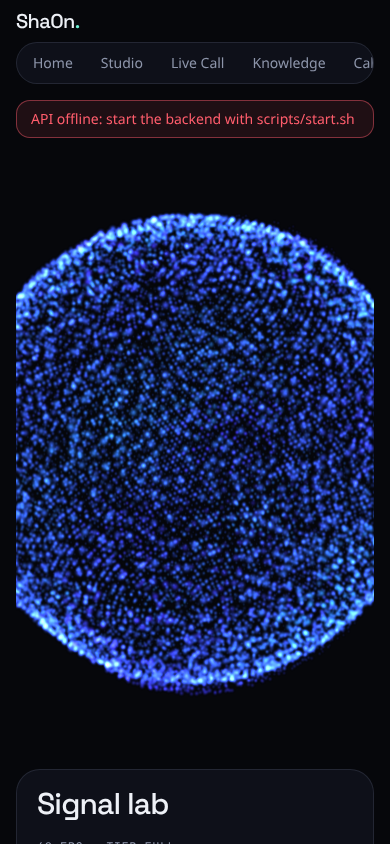
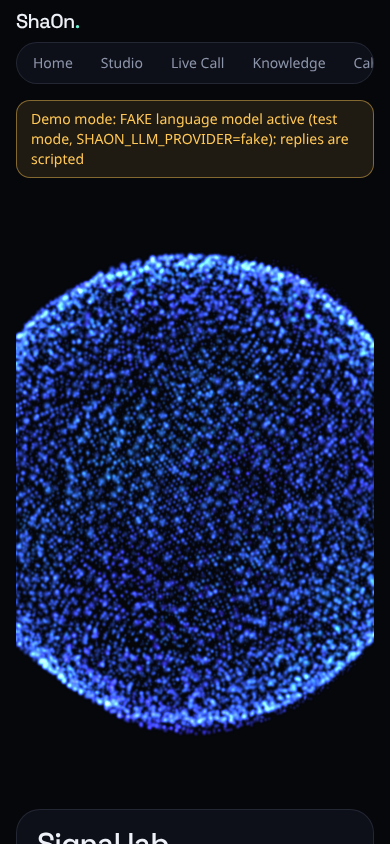
M7: full UI build-out, call logs with replay, accessibility pass
Landing scroll story, spatial preset gallery, language section; Call Logs
with per-turn timings, guardrail events and Signal replay; GSAP respects
effects tiers; axe-core reports zero WCAG A/AA violations on all pages;
64 screenshots across tiers and viewports.

Claude-Session: https://claude.ai/code/session_0169V78jR9Du7f4CGUc1cxE9

diff --git a/web/src/app/logs/page.tsx b/web/src/app/logs/page.tsx
@@ -1,0 +1,115 @@
+"use client";
+/** Call Logs: dense, calm telemetry. Detail = transcript + per-turn timings + guardrail events + Signal replay. */
+import dynamic from "next/dynamic";
+import Link from "next/link";
+import { useEffect, useRef, useState } from "react";
+import { AppShell } from "@/components/shell/AppShell";
+import { emptyLevels, type Levels, type SignalState } from "@/components/signal/Signal";
+import { api } from "@/lib/api";
+import type { Lang } from "@/lib/tokens";
+
+const Signal = dynamic(() => import("@/components/signal/Signal").then((m) => m.Signal), { ssr: false });
+
+type Call = { id: string; profile_id: string; transport: string; started_at: number; ended_at: number | null; languages_used: string | null;
+  provider: string; turns: number; guard_events: number; active: boolean };
+type Turn = { id: number; role: string; language: Lang; text: string; stt_ms: number | null; llm_ms: number | null; llm_ttft_ms: number | null;
+  guard_ms: number | null; tts_ms: number | null; first_audio_ms: number | null; lang_reason: string | null; engine: any; sources: any; guardrail: any; created_at: number };
+
+const fmtT = (t: number) => new Date(t * 1000).toLocaleString();
+const ms = (v: number | null | undefined) => (v == null ? "-" : `${v}`);
+
+export default function Logs() {
+  const [calls, setCalls] = useState<Call[]>([]);
+  const [id, setId] = useState<string | null>(null);
+  const [d, setD] = useState<{ call: Call; turns: Turn[]; guardrail_events: any[] } | null>(null);
+  useEffect(() => {
+    api<Call[]>("/api/calls").then(setCalls).catch(() => {});
+    try { setId(new URL(window.location.href).searchParams.get("id")); } catch {}
+  }, []);
+  useEffect(() => { if (id) api(`/api/calls/${id}`).then(setD as any).catch(() => setD(null)); }, [id]);
+
+  if (id && d) return <AppShell><Detail d={d} /></AppShell>;
+  const avg = (xs: number[]) => (xs.length ? Math.round(xs.reduce((a, b) => a + b, 0) / xs.length) : null);
+  return (
+    <AppShell>
+      <h1 className="display my-6" style={{ fontSize: "clamp(40px, 7vw, 104px)" }}>Call Logs</h1>
+      <div className="glass overflow-x-auto">
+        <table className="w-full mono text-xs" data-testid="calls-table">
+          <thead><tr className="telemetry text-left">{["started", "call", "agent", "transport", "languages", "llm", "turns", "guard", ""].map((h) => <th key={h} className="px-3 py-2">{h}</th>)}</tr></thead>
+          <tbody>{calls.map((c) => (
+            <tr key={c.id} className="border-t" style={{ borderColor: "var(--line)" }}>
+              <td className="px-3 py-2 whitespace-nowrap">{fmtT(c.started_at)}</td><td className="px-3">{c.id}</td><td className="px-3">{c.profile_id}</td>
+              <td className="px-3">{c.transport}</td><td className="px-3">{c.languages_used || "-"}</td><td className="px-3">{c.provider}</td>
+              <td className="px-3">{c.turns}</td><td className="px-3" style={{ color: c.guard_events ? "var(--warn)" : undefined }}>{c.guard_events}</td>
+              <td className="px-3"><Link className="underline" href={`/logs/?id=${c.id}`} onClick={() => setId(c.id)}>{c.active ? "live" : "open"}</Link></td>
+            </tr>))}
+            {calls.length === 0 && <tr><td className="px-3 py-6" colSpan={9}>No calls yet. Start one on the Live Call page.</td></tr>}</tbody>
+        </table>
+      </div>
+    </AppShell>
+  );
+
+  function Detail({ d }: { d: { call: Call; turns: Turn[]; guardrail_events: any[] } }) {
+    const fa = d.turns.map((t) => t.first_audio_ms).filter((x): x is number => x != null);
+    return (
+      <div className="space-y-6 my-6" data-testid="call-detail">
+        <div className="flex flex-wrap items-end justify-between gap-3">
+          <div><Link href="/logs/" className="telemetry underline" onClick={() => { setId(null); setD(null); }}>← all calls</Link>
+            <h1 className="display text-4xl mt-2">{d.call.id}</h1>
+            <p className="telemetry">{fmtT(d.call.started_at)} · {d.call.transport} · {d.call.provider} · languages {d.call.languages_used || "-"} · avg first audio {avg(fa) ?? "-"} ms</p></div>
+        </div>
+        <Replay turns={d.turns} />
+        <div className="glass overflow-x-auto">
+          <table className="w-full text-xs" data-testid="turns-table">
+            <thead><tr className="telemetry text-left">{["role", "lang", "text", "reason", "stt", "llm 1st", "llm", "guard", "tts", "first audio"].map((h) => <th key={h} className="px-3 py-2">{h}</th>)}</tr></thead>
+            <tbody>{d.turns.map((t) => (
+              <tr key={t.id} className="border-t align-top" style={{ borderColor: "var(--line)" }}>
+                <td className="px-3 py-2 mono">{t.role}</td><td className="px-3"><span className={`lang-badge lang-${t.language}`}>{t.language}</span></td>
+                <td className="px-3 py-2 max-w-[44ch]" lang={t.language}>{t.text}{t.sources?.length ? <div className="telemetry mt-1" style={{ textTransform: "none" }}>sources: {t.sources.map((s: any) => s.title).join(", ")}</div> : null}</td>
+                <td className="px-3 mono">{t.lang_reason || "-"}</td>
+                {[t.stt_ms, t.llm_ttft_ms, t.llm_ms, t.guard_ms, t.tts_ms, t.first_audio_ms].map((v, i) => <td key={i} className="px-3 mono">{ms(v)}</td>)}
+              </tr>))}</tbody>
+          </table>
+        </div>
+        <div className="glass p-4"><h2 className="telemetry mb-2">Guardrail events ({d.guardrail_events.length})</h2>
+          <ul className="mono text-xs space-y-1">{d.guardrail_events.map((g) => <li key={g.id}>{g.stage} · {g.verdict} · {g.rule} · {g.detail}</li>)}</ul></div>
+      </div>
+    );
+  }
+}
+
+/** Re-drive the Signal from stored timings: listening = caller audio length, thinking = STT + LLM first text, speaking = estimate. */
+function Replay({ turns }: { turns: Turn[] }) {
+  const [state, setState] = useState<SignalState>("idle");
+  const [lang, setLang] = useState<Lang>("en");
+  const [label, setLabel] = useState("ready");
+  const levels = useRef<Levels>(emptyLevels());
+  const timers = useRef<number[]>([]);
+  function play() {
+    timers.current.forEach(clearTimeout); timers.current = [];
+    let t = 0;
+    const at = (dt: number, f: () => void) => { t += dt; timers.current.push(window.setTimeout(f, t)); };
+    for (let i = 0; i < turns.length; i++) {
+      const u = turns[i];
+      if (u.role === "user") {
+        const listen = Math.round((u.engine?.audio_s ?? 2) * 1000);
+        at(0, () => { setState("listening"); setLang(u.language); setLabel(`caller · ${u.language} · ${listen} ms speech`); levels.current.mic = 0.6; });
+        const a = turns[i + 1];
+        at(listen, () => { setState("thinking"); levels.current.mic = 0; setLabel(`thinking · stt ${ms(u.stt_ms)} · llm 1st ${ms(a?.llm_ttft_ms)} ms`); });
+        const think = (a?.first_audio_ms ?? (u.stt_ms ?? 0) + (a?.llm_ms ?? 0));
+        at(Math.max(300, think), () => { setState("speaking"); setLang(a?.language ?? u.language); setLabel(`agent · first audio ${ms(a?.first_audio_ms)} ms`); levels.current.out = 0.5; levels.current.bands = [0.5, 0.4, 0.3, 0.2]; });
+        at(Math.min(8000, Math.max(1200, (a?.text?.length ?? 40) * 60)), () => { setState("idle"); levels.current = emptyLevels(); setLabel("idle (speaking length estimated from text)"); });
+      }
+    }
+  }
+  useEffect(() => () => timers.current.forEach(clearTimeout), []);
+  return (
+    <div className="glass relative h-[320px] overflow-hidden">
+      <Signal state={state} lang={lang} levelsRef={levels} className="absolute inset-0" />
+      <div className="absolute left-4 bottom-4 flex items-center gap-3">
+        <button className="btn" onClick={play} data-testid="replay">Replay call</button>
+        <span className="telemetry" aria-live="polite">{label}</span>
+      </div>
+    </div>
+  );
+}

diff --git a/web/src/components/landing/HowItWorks.tsx b/web/src/components/landing/HowItWorks.tsx
@@ -1,0 +1,65 @@
+"use client";
+/** Scroll-driven technical story (Immersive Robotics idea, re-implemented): one pinned stage, five steps. */
+import { useEffect, useRef } from "react";
+import { useEffectsTier } from "@/lib/effects";
+import { gsap, ScrollTrigger, setupMotion } from "@/lib/motion";
+
+const STEPS = [
+  { k: "01", t: "Listens", d: "Voice activity detection cuts your speech into turns, locally. Audio never leaves the machine.", m: "VAD · SMART TURN" },
+  { k: "02", t: "Identifies the language", d: "Language ID over five candidates, biased to the previous turn, double-checked by the script of the transcript.", m: "LID · SCRIPT CHECK" },
+  { k: "03", t: "Understands", d: "Speech to text per language: Whisper for English and Japanese, IndicConformer for Hindi, Bengali, Kannada (GPU).", m: "STT ROUTER" },
+  { k: "04", t: "Answers from your site", d: "Claude Haiku 5.5 answers only from your crawled website, retrieved passages and tools. Guardrails check every sentence.", m: "RAG · GUARDRAILS" },
+  { k: "05", t: "Speaks back", d: "Reply language is read from the reply's script; the matching voice speaks it, sentence by sentence.", m: "TTS ROUTER" },
+];
+
+export function HowItWorks() {
+  const root = useRef<HTMLDivElement>(null);
+  const { tier } = useEffectsTier();
+  useEffect(() => {
+    if (tier === "off" || !root.current) return;
+    setupMotion();
+    const ctx = gsap.context(() => {
+      const panels = gsap.utils.toArray<HTMLElement>("[data-step]");
+      const tl = gsap.timeline({ scrollTrigger: { trigger: root.current, start: "top top", end: `+=${panels.length * 70}%`, scrub: 0.6, pin: true } });
+      // cross-fade: step i+1 starts entering before step i has left, so one step is always readable
+      panels.forEach((p, i) => {
+        if (i > 0) tl.fromTo(p, { yPercent: 30, opacity: 0, clipPath: "inset(30% 0 30% 0)" },
+          { yPercent: 0, opacity: 1, clipPath: "inset(0% 0 0% 0)", ease: "emphasis", duration: 0.45 }, i - 0.25);
+        if (i < panels.length - 1) tl.to(p, { yPercent: -25, opacity: 0, ease: "exit", duration: 0.4 }, i + 0.75);
+      });
+      tl.fromTo("[data-progress]", { scaleX: 0 }, { scaleX: 1, ease: "none", duration: panels.length }, 0);
+    }, root);
+    return () => { ctx.revert(); ScrollTrigger.refresh(); };
+  }, [tier]);
+
+  if (tier === "off") {
+    return (
+      <section aria-labelledby="how-h" className="px-[var(--gutter)] py-24 max-w-[var(--content-max)] mx-auto">
+        <h2 id="how-h" className="display mb-10" style={{ fontSize: "clamp(36px, 6vw, 88px)" }}>How ShaOn works</h2>
+        <ol className="grid gap-6 md:grid-cols-5">{STEPS.map((s) => (
+          <li key={s.k} className="glass p-5"><p className="telemetry">{s.k} · {s.m}</p><h3 className="display text-2xl my-2">{s.t}</h3><p className="text-sm" style={{ color: "var(--ink-muted)" }}>{s.d}</p></li>))}</ol>
+      </section>
+    );
+  }
+  return (
+    <section ref={root} aria-labelledby="how-h" className="relative h-[100svh] overflow-hidden">
+      <div className="absolute inset-0 grid place-items-center px-[var(--gutter)]">
+        <h2 id="how-h" className="sr-only">How ShaOn works</h2>
+        <div className="relative w-full max-w-[var(--content-max)] h-[60vh]">
+          {STEPS.map((s, i) => (
+            <article key={s.k} data-step className="absolute inset-0 grid md:grid-cols-[1fr_1.2fr] gap-8 items-center" style={{ opacity: i === 0 ? 1 : 0 }} aria-label={`Step ${s.k}: ${s.t}`}>
+              <div className="display" style={{ fontSize: "clamp(96px, 20vw, 320px)", color: "transparent", WebkitTextStroke: "1px var(--line-strong)" }} aria-hidden="true">{s.k}</div>
+              <div>
+                <p className="telemetry mb-3" style={{ color: "var(--signal)" }}>{s.m}</p>
+                <h3 className="display mb-4" style={{ fontSize: "clamp(36px, 5vw, 80px)" }}>{s.t}</h3>
+                <p className="text-lg max-w-[42ch]" style={{ color: "var(--ink-muted)" }}>{s.d}</p>
+              </div>
+            </article>))}
+        </div>
+        <div className="absolute bottom-10 inset-x-[var(--gutter)] h-px" style={{ background: "var(--line)" }}>
+          <div data-progress className="h-px origin-left" style={{ background: "var(--signal)" }} />
+        </div>
+      </div>
+    </section>
+  );
+}

diff --git a/web/src/components/landing/PresetGallery.tsx b/web/src/components/landing/PresetGallery.tsx
@@ -1,0 +1,55 @@
+"use client";
+/** Spatial preset gallery (basement / DNA-carousel ideas, re-implemented): 3D ring, keys, drag, buttons. */
+import { useRouter } from "next/navigation";
+import { useRef, useState } from "react";
+import { api } from "@/lib/api";
+
+const PRESETS = [
+  { k: "bank_support", t: "Bank support", d: "Balances, lost cards, branch hours, deposit rates. Fake data, AI disclosure, never reads full numbers.", tools: "balance lookup · card block" },
+  { k: "tourism", t: "Tourism desk", d: "Heritage tours, river cruises, Japan trips and visa help from the operator's own site.", tools: "itinerary search" },
+  { k: "ecommerce", t: "Store help", d: "Order status, delivery and returns in five languages.", tools: "order lookup" },
+  { k: "clinic_frontdesk", t: "Clinic front desk", d: "Appointments and hours. Never gives medical advice; emergencies escalate.", tools: "appointment slots" },
+  { k: "custom", t: "Custom agent", d: "Describe any role in your own words and point it at your website.", tools: "no tools" },
+];
+
+export function PresetGallery() {
+  const [i, setI] = useState(0);
+  const [busy, setBusy] = useState(false);
+  const drag = useRef<number | null>(null);
+  const router = useRouter();
+  const n = PRESETS.length, step = 360 / n;
+  const go = (d: number) => setI((x) => (x + d + n) % n);
+  async function use(k: string) {
+    setBusy(true);
+    try { const p: any = await api("/api/profiles", { method: "POST", json: { preset: k } }); router.push(`/studio/?id=${p.id}`); }
+    catch { router.push("/studio/"); }
+  }
+  return (
+    <section aria-labelledby="gallery-h" aria-roledescription="carousel" className="py-24 px-[var(--gutter)] overflow-hidden"
+      onKeyDown={(e) => { if (e.key === "ArrowRight") go(1); if (e.key === "ArrowLeft") go(-1); }}>
+      <div className="max-w-[var(--content-max)] mx-auto">
+        <h2 id="gallery-h" className="display mb-2" style={{ fontSize: "clamp(36px, 6vw, 88px)" }}>Start from a preset</h2>
+        <p className="mb-10" style={{ color: "var(--ink-muted)" }}>Every preset ships with persona, guardrails, disclaimers and tools. Change anything in the Studio.</p>
+        <div className="relative h-[380px] select-none" style={{ perspective: "1400px" }}
+          onPointerDown={(e) => { drag.current = e.clientX; }} onPointerUp={(e) => { if (drag.current !== null) { const dx = e.clientX - drag.current; if (Math.abs(dx) > 40) go(dx < 0 ? 1 : -1); drag.current = null; } }}>
+          <div className="absolute inset-0" style={{ transformStyle: "preserve-3d", transform: `translateZ(-420px) rotateY(${-i * step}deg)`, transition: "transform var(--dur-slow) var(--ease-emphasis)" }}>
+            {PRESETS.map((p, j) => (
+              <article key={p.k} aria-hidden={j !== i} inert={j !== i} className="glass absolute left-1/2 top-0 w-[min(320px,80vw)] h-[340px] p-6 flex flex-col"
+                style={{ backfaceVisibility: "hidden", WebkitBackfaceVisibility: "hidden", transform: `translateX(-50%) rotateY(${j * step}deg) translateZ(420px)`, opacity: j === i ? 1 : 0.35, transition: "opacity var(--dur-base) var(--ease-enter)" }}>
+                <p className="telemetry">{String(j + 1).padStart(2, "0")} / {String(n).padStart(2, "0")}</p>
+                <h3 className="display text-3xl my-3">{p.t}</h3>
+                <p className="text-sm flex-1" style={{ color: "var(--ink-muted)" }}>{p.d}</p>
+                <p className="telemetry mb-4">{p.tools}</p>
+                <button className="btn btn-primary w-fit" disabled={busy} onClick={() => use(p.k)}>Use this preset</button>
+              </article>))}
+          </div>
+        </div>
+        <div className="flex items-center gap-3 mt-6">
+          <button className="btn" onClick={() => go(-1)} aria-label="Previous preset">←</button>
+          <button className="btn" onClick={() => go(1)} aria-label="Next preset">→</button>
+          <span className="telemetry" aria-live="polite">{PRESETS[i].t}</span>
+        </div>
+      </div>
+    </section>
+  );
+}

diff --git a/web/src/app/page.tsx b/web/src/app/page.tsx
@@ -1,5 +1,16 @@
+import Link from "next/link";
+import { HowItWorks } from "@/components/landing/HowItWorks";
 import { Hero } from "@/components/landing/Hero";
+import { PresetGallery } from "@/components/landing/PresetGallery";
 import { CapsuleNav } from "@/components/shell/CapsuleNav";
+
+const LANGS = [
+  { k: "en", n: "English", s: "Latin", line: "Hello, how can I help you today?" },
+  { k: "ja", n: "日本語", s: "Kana / Kanji", line: "本日はどのようなご用件でしょうか。" },
+  { k: "hi", n: "हिन्दी", s: "Devanagari", line: "नमस्ते, मैं आपकी क्या मदद कर सकती हूँ?" },
+  { k: "bn", n: "বাংলা", s: "Bengali", line: "নমস্কার, আমি আপনাকে কীভাবে সাহায্য করতে পারি?" },
+  { k: "kn", n: "ಕನ್ನಡ", s: "Kannada", line: "ನಮಸ್ಕಾರ, ನಾನು ನಿಮಗೆ ಹೇಗೆ ಸಹಾಯ ಮಾಡಲಿ?" },
+];
 
 export default function Landing() {
   return (
@@ -9,7 +20,26 @@ export default function Landing() {
       </header>
       <main id="main">
         <Hero />
+        <HowItWorks />
+        <section aria-labelledby="langs-h" className="py-24 px-[var(--gutter)] max-w-[var(--content-max)] mx-auto">
+          <h2 id="langs-h" className="display mb-10" style={{ fontSize: "clamp(36px, 6vw, 88px)" }}>Switch language any turn</h2>
+          <ul className="grid gap-4 md:grid-cols-5">{LANGS.map((l) => (
+            <li key={l.k} className="glass p-5" lang={l.k}>
+              <p className={`lang-badge lang-${l.k}`} lang="en">{l.k.toUpperCase()} · {l.s}</p>
+              <p className="text-3xl my-4" style={{ color: `var(--lang-${l.k})` }}>{l.n}</p>
+              <p className="text-sm" style={{ color: "var(--ink-muted)" }}>{l.line}</p>
+            </li>))}</ul>
+        </section>
+        <PresetGallery />
+        <section className="py-24 px-[var(--gutter)] text-center">
+          <h2 className="display mb-8" style={{ fontSize: "clamp(36px, 7vw, 110px)" }}>Talk to it.</h2>
+          <Link href="/call/" className="btn btn-metal" style={{ padding: "16px 34px", fontSize: 18 }}>Start a demo</Link>
+        </section>
       </main>
+      <footer className="px-[var(--gutter)] py-10 text-xs space-y-2" style={{ color: "var(--ink-muted)", borderTop: "1px solid var(--line)" }}>
+        <p>ShaOn Voice AI demo. Every agent says it is an AI assistant. Demo businesses and data are fictional.</p>
+        <p><span className="badge-demo">demo only</span> OmniVoice voices use CC-BY-NC weights: private demos only, never commercial.</p>
+      </footer>
     </>
   );
 }

diff --git a/web/src/app/studio/page.tsx b/web/src/app/studio/page.tsx
@@ -156,7 +156,7 @@ export default function Studio() {
                 <fieldset><legend className="telemetry mb-2">Enabled languages</legend>
                   <div className="flex flex-wrap gap-2">{LANGS.map((l) => {
                     const on = cfg.languages.enabled.includes(l);
-                    return <button key={l} lang={l} className={`btn lang-${l}`} aria-pressed={on} style={{ opacity: on ? 1 : 0.5 }}
+                    return <button key={l} lang={l} className={`btn lang-${l}`} aria-pressed={on} style={{ background: on ? "color-mix(in srgb, currentColor 16%, var(--surface-raised))" : undefined, borderColor: on ? "currentColor" : undefined, textDecoration: on ? undefined : "line-through" }}
                       onClick={() => set("languages.enabled", on ? cfg.languages.enabled.filter((x: string) => x !== l) : [...cfg.languages.enabled, l])}>{LANG_NAMES[l].native}</button>;
                   })}</div></fieldset>
                 <Field label="Default language"><select className="btn" value={cfg.languages.default} onChange={(e) => set("languages.default", e.target.value)}>{cfg.languages.enabled.map((l: Lang) => <option key={l} value={l}>{LANG_NAMES[l].native}</option>)}</select></Field>

diff --git a/web/src/components/settings/VoicesPanel.tsx b/web/src/components/settings/VoicesPanel.tsx
@@ -53,7 +53,7 @@ export function VoicesPanel() {
     <section className="glass p-6 space-y-4" aria-labelledby="voices-h" data-testid="voices-panel">
       <h2 id="voices-h" className="display text-2xl">Voices</h2>
       <div className="flex flex-wrap gap-2" role="tablist" aria-label="Voice language">
-        {LANGS.map((l) => <button key={l} role="tab" aria-selected={l === lang} lang={l} className={`btn lang-${l}`} style={{ opacity: l === lang ? 1 : 0.6 }} onClick={() => setLang(l)}>{LANG_NAMES[l].native}</button>)}
+        {LANGS.map((l) => <button key={l} role="tab" aria-selected={l === lang} lang={l} className={`btn lang-${l}`} style={{ background: l === lang ? "color-mix(in srgb, currentColor 16%, var(--surface-raised))" : undefined, borderColor: l === lang ? "currentColor" : undefined }} onClick={() => setLang(l)}>{LANG_NAMES[l].native}</button>)}
       </div>
       <label className="flex items-center gap-2 text-sm">Set defaults for agent
         <select className="btn" value={agent} onChange={(e) => setAgent(e.target.value)}>{profiles.map((p) => <option key={p.id} value={p.id}>{p.name}</option>)}</select></label>

diff --git a/web/src/components/landing/Hero.tsx b/web/src/components/landing/Hero.tsx
@@ -40,7 +40,7 @@ export function Hero() {
         </h1>
         <ul className="flex flex-wrap gap-3 mt-6" aria-label="Supported languages">
           {LANGS.map((l) => (
-            <li key={l} lang={l} className={`lang-badge lang-${l}`} style={{ fontFamily: "var(--font-body)", fontSize: 14, opacity: l === lang ? 1 : 0.55 }}>
+            <li key={l} lang={l} className={`lang-badge lang-${l}`} style={{ fontFamily: "var(--font-body)", fontSize: 14, background: l === lang ? "color-mix(in srgb, currentColor 16%, transparent)" : "transparent" }}>
               {LANG_NAMES[l].native}
             </li>
           ))}

diff --git a/web/src/lib/effects.tsx b/web/src/lib/effects.tsx
@@ -90,7 +90,10 @@ export function EffectsProvider({ children }: { children: React.ReactNode }) {
     return t;
   }, [choice, measuredFps, reducedMotion, generating, software]);
 
-  useEffect(() => { document.documentElement.dataset.effects = tier; }, [tier]);
+  useEffect(() => {
+    document.documentElement.dataset.effects = tier;
+    import("gsap").then(({ default: gsap }) => gsap.globalTimeline.timeScale(tier === "off" ? 1000 : 1)); // off/reduced: end states, no motion
+  }, [tier]);
 
   const setChoice = useCallback((c: TierChoice) => {
     setChoiceState(c);

diff --git a/web/src/styles/tokens.css b/web/src/styles/tokens.css
@@ -15,7 +15,7 @@
   --line-strong: rgba(160, 180, 220, 0.32);
   --ink: #eef1f7;
   --ink-muted: #8d95aa;
-  --ink-faint: #5a6175;
+  --ink-faint: #7a8296; /* >= 4.5:1 on --bg (WCAG AA) */
   --signal: #6ef2d6;
   --signal-alt: #8a7dff;
   --warn: #ffc857;

diff --git a/STATUS.md b/STATUS.md
@@ -81,3 +81,15 @@ PENDING = cannot be done here; says who must do it.
   UI E2E previews a Kokoro voice and gets the PENDING message for Indic Parler; call E2E switches en voice mid-call
   (greeting kokoro_en_heart -> reply kokoro_en_michael).
 - PENDING (user): Indic Parler and OmniVoice voices need the GPU run + native-speaker ratings (M0).
+
+## M7 - UI build-out: BUILT + VERIFIED (provisional tokens)
+- Built: all DESIGN.md pages - Landing (ASCII wordmark hero, pinned scroll story "How ShaOn works" with cross-fades,
+  5-language section in native scripts, spatial 3D preset gallery with keys/drag, liquid-metal CTA, footer with the
+  OmniVoice demo-only notice), Agent Studio, Live Call (Signal, floating transcript, telemetry strip, voice dock),
+  Knowledge (drop zone, crawl graph collapsing into the brief), Call Logs (dense list, detail, per-turn timings,
+  guardrail events, Signal replay from stored timings), Settings (API key, spend, voices, effects, engines).
+  Effects tiers + reduced motion apply to every animated component (Signal, ASCII, GSAP timelines jump to end states in Off).
+- Verified: axe-core WCAG 2.1 A/AA scan: 0 violations on all 7 pages (after fixing contrast of dimmed badges and faint text);
+  64 Playwright screenshots in design/screens/ (7 pages + call detail x full/lite/off/reduced x desktop/phone, plus scroll states);
+  no page errors; time-to-first-audio with/without effects in design/perf.md.
+- PENDING (user): "Folded Signal" moodboard, reference inventory and assets -> final styling pass (tokens are provisional).
